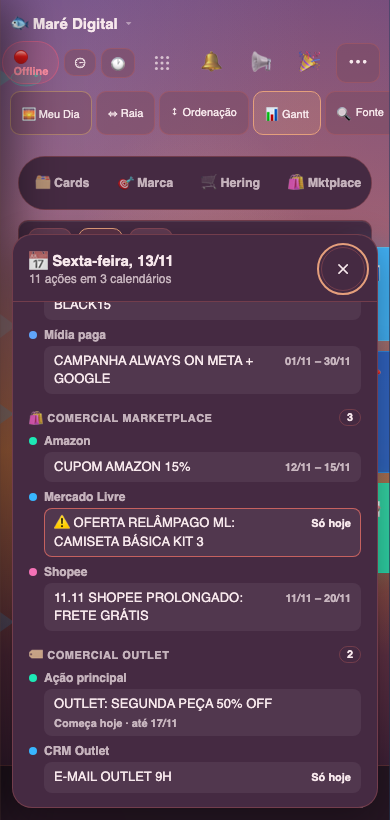
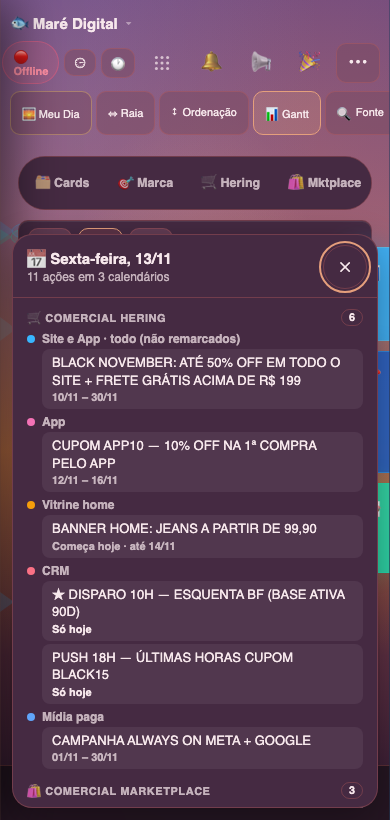
popup do dia: 480 px no computador e "quando" sempre na mesma posição (direita no computador, embaixo no celular); teste M8g; console de validação; Quadro com a reserva
Agent: claude

diff --git a/mare-gcal-dev.js b/mare-gcal-dev.js
@@ -265,23 +265,23 @@
 [data-theme="light"] .mgc-sino.on{color:var(--cyan,#065670);}
 .mgc-sino[disabled]{opacity:.6;cursor:progress;}
 .mgc-dia{display:flex;flex-direction:column;padding:0 !important;color:var(--txt);font-size:13px;}
-.mgc-dia-hd{position:sticky;top:0;z-index:1;display:flex;align-items:center;gap:10px;padding:12px 12px 10px 16px;background:inherit;border-bottom:1px solid var(--glass-b);border-radius:inherit;border-bottom-left-radius:0;border-bottom-right-radius:0;}
+.mgc-dia-hd{position:sticky;top:0;z-index:1;display:flex;align-items:center;gap:10px;padding:10px 10px 8px 14px;background:inherit;border-bottom:1px solid var(--glass-b);border-radius:inherit;border-bottom-left-radius:0;border-bottom-right-radius:0;}
 .mgc-dia-tit{display:flex;flex-direction:column;gap:2px;min-width:0;flex:1;}
 .mgc-dia-tit b{font-size:15px;line-height:1.25;}
 .mgc-dia-tit span{font-size:12px;color:var(--txt2);}
 .mgc-dia-x{flex:none;width:32px;height:32px;border-radius:50%;border:1px solid var(--glass-b);background:transparent;color:var(--txt);font-size:14px;line-height:1;cursor:pointer;font-family:inherit;}
 .mgc-dia-x:hover{background:var(--glass-h);}
 .mgc-dia-x:focus-visible,.mgc-dia :focus-visible{outline:2px solid var(--accent);outline-offset:2px;}
-.mgc-dia-corpo{display:flex;flex-direction:column;gap:14px;padding:12px 16px 14px;}
-.mgc-dia-grp{display:flex;flex-direction:column;gap:8px;}
+.mgc-dia-corpo{display:flex;flex-direction:column;gap:12px;padding:10px 14px 12px;}
+.mgc-dia-grp{display:flex;flex-direction:column;gap:6px;}
 .mgc-dia-fonte{display:flex;align-items:center;justify-content:space-between;gap:8px;margin:0;font-size:11px;font-weight:800;letter-spacing:.05em;text-transform:uppercase;color:var(--txt2);}
 .mgc-dia-n{min-width:20px;padding:1px 7px;border-radius:999px;border:1px solid var(--glass-b);font-size:11px;letter-spacing:0;text-align:center;color:var(--txt);}
-.mgc-dia-lin{display:flex;flex-direction:column;gap:4px;}
+.mgc-dia-lin{display:flex;flex-direction:column;gap:3px;}
 .mgc-dia-lrot{display:flex;align-items:center;gap:7px;font-size:12px;font-weight:700;color:var(--txt2);}
 .mgc-dia-lrot i{flex:none;width:8px;height:8px;border-radius:50%;}
-.mgc-dia ul{margin:0;padding:0;list-style:none;display:flex;flex-direction:column;gap:4px;}
-.mgc-dia-it{display:flex;align-items:baseline;justify-content:space-between;gap:4px 10px;flex-wrap:wrap;padding:6px 10px;margin-left:15px;border-radius:8px;background:color-mix(in srgb,currentColor 7%,transparent);}
-.mgc-dia-txt{flex:1 1 200px;min-width:0;line-height:1.4;overflow-wrap:anywhere;}
+.mgc-dia ul{margin:0;padding:0;list-style:none;display:flex;flex-direction:column;gap:3px;}
+.mgc-dia-it{display:grid;grid-template-columns:minmax(0,1fr) auto;align-items:baseline;gap:2px 12px;padding:5px 10px;margin-left:15px;border-radius:8px;background:var(--glass-h);background:color-mix(in srgb,currentColor 7%,transparent);}   /* "quando" SEMPRE na coluna da direita (computador) */
+.mgc-dia-txt{min-width:0;line-height:1.35;overflow-wrap:anywhere;}
 .mgc-dia-q{flex:none;font-size:11px;font-weight:600;color:var(--txt2);white-space:nowrap;}
 .mgc-dia-q.is-hoje{color:var(--txt);}
 .mgc-dia-it.is-alerta{box-shadow:inset 0 0 0 1px var(--danger,#ff6b6b);}
@@ -290,6 +290,7 @@
 .mgc-dia-vz{display:flex;justify-content:space-between;gap:10px;font-size:12px;color:var(--txt2);}
 .mgc-dia-vz span:first-child{font-weight:700;}
 @media (hover:none) and (pointer:coarse){ .mgc-dia-x{width:44px;height:44px;} }
+@media (max-width:768px){ .mgc-dia-it{grid-template-columns:minmax(0,1fr);} }   /* celular: "quando" SEMPRE embaixo do texto (estreito demais p/ 2 colunas) */
 @media (max-width:600px){ .mgc-aba-l{display:none;} .mgc-aba-c{display:inline;} }
 @media (max-width:768px){ .mgc{--mgc-title:118px;} .mgc.is-largo{--mgc-day:120px;} .mgc-abas{align-self:stretch;gap:2px;} .mgc-aba{flex:1 0 auto;padding:9px 8px;} .mgc-mes{margin-left:0;flex:1 1 100%;} .mgc-lin{white-space:normal;font-size:11.5px;line-height:1.2;} }
 @media (hover:none) and (pointer:coarse){ .mgc-aba,.mgc-btn,.mgc-chip,.mgc-mes,.mgc-dhd.is-clic{min-height:44px;} .mgc-mes{font-size:16px;} }
@@ -308,7 +309,7 @@
 }
 
 /* 📅 Popup do dia (16/11): fica no <body> (fora da régua, que tem rolagem própria) e se posiciona junto do dia clicado */
-.mgc-diapop{position:fixed;z-index:9400;padding:0;background:rgb(var(--surface-rgb,var(--slate-rgb,10,30,55)));color:var(--txt);border:1px solid var(--glass-b);border-radius:var(--r2,14px);width:min(380px,calc(100vw - 32px));max-height:min(70vh,520px);overflow:auto;overscroll-behavior:contain;box-shadow:var(--specular,none),0 12px 40px rgba(0,0,0,.35);}
+.mgc-diapop{position:fixed;z-index:9400;padding:0;background:rgb(var(--surface-rgb,var(--slate-rgb,10,30,55)));color:var(--txt);border:1px solid var(--glass-b);border-radius:var(--r2,14px);width:min(480px,calc(100vw - 32px));max-height:min(80vh,720px);overflow:auto;overscroll-behavior:contain;box-shadow:var(--specular,none),0 12px 40px rgba(0,0,0,.35);}
 .mgc-diapop.is-novo{animation:mgcPopIn .14s ease-out;}
 @keyframes mgcPopIn{from{opacity:0;transform:translateY(-4px);}to{opacity:1;transform:none;}}
 @media (max-width:768px){ .mgc-diapop{left:12px !important;right:12px;top:auto !important;bottom:calc(12px + env(safe-area-inset-bottom,0px));width:auto;max-height:70dvh;border-radius:20px;} }

diff --git a/docs/arezzo/testes/console_gantt_dia_ux.js b/docs/arezzo/testes/console_gantt_dia_ux.js
@@ -1,0 +1,22 @@
+// 📅 Validação do popup do dia (Gantt · 🧭 Digital) — /melhoriauiux de 16/11/2026. SÓ LEITURA.
+// Como usar: no kanban-dev.html (📊 Gantt → 🧭 Digital · dia a dia) OU no okr-dev.html (Calendário → 📊 Gantt → 🧭 Digital),
+// toque num dia que tenha ações e cole isto no console (F12).
+(() => {
+  const d = document.querySelector('.mgc-diapop');
+  const r = [];
+  const ok = (teste, passou, detalhe) => r.push({ teste, resultado: passou ? '✅' : '❌', detalhe: detalhe || '' });
+  ok('popup do dia aberto', !!d, d ? '' : 'toque num dia da 🧭 Digital antes');
+  if (d) {
+    const its = [...d.querySelectorAll('.mgc-dia-it')], lin = [...d.querySelectorAll('.mgc-dia-lrot')].map(x => x.textContent);
+    ok('módulo mare-gcal v9', (window.MareGCal || {}).v === 9, 'v=' + (window.MareGCal || {}).v);
+    ok('cabeçalho com data e total', /\d{2}\/\d{2}/.test(d.querySelector('.mgc-dia-tit b')?.textContent || ''), d.querySelector('.mgc-dia-tit span')?.textContent);
+    ok('cada calendário com título e total', d.querySelectorAll('.mgc-dia-fonte .mgc-dia-n').length === d.querySelectorAll('.mgc-dia-grp').length, d.querySelectorAll('.mgc-dia-grp').length + ' calendário(s)');
+    ok('cada linha aparece uma vez por calendário', [...d.querySelectorAll('.mgc-dia-grp')].every(g => { const l = [...g.querySelectorAll('.mgc-dia-lrot')].map(x => x.textContent); return new Set(l).size === l.length; }), lin.join(' · '));
+    ok('toda ação tem o "quando"', its.every(li => (li.querySelector('.mgc-dia-q')?.textContent || '').length > 0), its.length + ' ação(ões)');
+    ok('⚠ das ações importantes aparece', [...d.querySelectorAll('.mgc-dia-it.is-alerta')].every(li => /⚠/.test(li.textContent)), d.querySelectorAll('.is-alerta').length + ' importante(s)');
+    const pos = new Set(its.map(li => { const a = li.getBoundingClientRect(), b = li.querySelector('.mgc-dia-q').getBoundingClientRect(); return innerWidth > 768 ? Math.round(b.right - a.right) + '/' + Math.round(b.top - a.top) : Math.round(b.left - a.left); }));
+    ok('"quando" sempre no mesmo lugar', pos.size <= 1, [...pos].join(' | '));
+    ok('sem rolagem lateral', d.scrollWidth <= d.clientWidth + 1);
+  }
+  console.table(r);
+})();

diff --git a/docs/arezzo/testes/test_gantt_digital.js b/docs/arezzo/testes/test_gantt_digital.js
@@ -74,6 +74,9 @@ const seed = () => ({ kanban: {
     t('M8d. "quando" de cada item: período (10/11 – 14/11) e Só hoje', est.qSite === '10/11 – 14/11' && est.qCrm === 'Só hoje', est);
     t('M8e. ⚠ ação importante aparece no popup (como na régua)', est.alerta, est);
     t('M8f. calendário sem nada vira linha compacta no fim; subtítulo conta ações e calendários; cabeçalho fixo', est.vazio.length === 1 && /Outlet.*ainda não publicado/i.test(est.vazio[0]) && est.sub === '3 ações em 2 calendários' && est.fixo === 'sticky', est);
+    t('M8g. "quando" sempre na mesma posição (coluna da direita, topo do item) e popup sem rolagem neste caso', await p.evaluate(() => { const d = document.getElementById('gantt-dia');
+      const pos = [...d.querySelectorAll('.mgc-dia-it')].map(li => { const a = li.getBoundingClientRect(), b = li.querySelector('.mgc-dia-q').getBoundingClientRect(); return Math.round(b.right - a.right) + '/' + Math.round(b.top - a.top); });
+      return new Set(pos).size === 1 && d.scrollHeight <= d.clientHeight + 1; }));
     t('M9. dia escolhido destacado (aria-pressed) e foco no ✕', await p.evaluate(() => document.querySelector('.gantt-day-hd[data-date="2026-11-13"]').getAttribute('aria-pressed') === 'true' && document.activeElement && document.activeElement.closest('#gantt-dia')));
     // republicação ao vivo de uma fonte com a consolidada aberta
     await p.evaluate(suf => window._set(window._ref(window._db, 'kanban/calendarios_gantt' + suf + '/outlet'), { meta: { atualizadoEm: 1, porNome: 'X', arquivo: 'o.xlsx' }, linhas: { out_acao_principal: { rot: 'Ação principal', ordem: 0 } }, barras: { o1: { linha: 'out_acao_principal', ini: '2026-11-13', fim: '2026-11-13', txt: 'OUTLET NOVO' } } }), SUF);

diff --git a/CHANGELOG.md b/CHANGELOG.md
@@ -29,7 +29,8 @@ completo, incluindo commits antigos sem PR/descrição detalhada).
 - **/melhoriauiux (o Caio achou o popup "desorganizado, informações jogadas"):** antes, cada ação era uma linha corrida "Linha: TEXTO (período)", o título do calendário quase igual aos itens, a linha repetida a cada ação (CRM, CRM…) e a ⚠ ação importante da régua sumia no popup.
 - **Agora:** cabeçalho fixo com a data e "N ações em N calendários" · cada calendário como título com o total · cada linha **uma vez**, com a **bolinha da mesma cor da régua** · cada ação num bloco próprio com o **quando** à direita (**Só hoje**, **Começa hoje · até 14/11**, **Termina hoje** ou o período) · **⚠ / ★** como na régua · calendário sem nada (ou não publicado) vira uma linha compacta no fim.
 - **Fonte única:** `MareGCal.diaHtml()` (mare-gcal-dev.js v9) — Maré e Radar desenham o mesmo popup (antes eram duas cópias). Nada mudou no que entra no dia (mesma `doDia`).
-- Teste: `test_gantt_digital.js` (M8c–M8f). Capturas antes/depois: `docs/capturas/gantt_dia_ux/`.
+- **Mais largo no computador** (380 → 480 px, até 80 % da altura): com 11 ações em 3 calendários o popup cabe inteiro em 1280×900 (707 px, sem rolar). O "quando" fica **sempre** na coluna da direita no computador e **sempre** embaixo do texto no celular.
+- Teste: `test_gantt_digital.js` (M8c–M8g). Validação de console: `docs/arezzo/testes/console_gantt_dia_ux.js`. Capturas antes/depois: `docs/capturas/gantt_dia_ux/`.
 
 ### 📅 Gantt · 🧭 Digital: o "tudo deste dia" abre num popup junto do dia clicado (kanban v8.30.987-dev, okr v2.135-dev, mare-gcal v8) — SÓ DEV — 2026-11-16
 

diff --git a/docs/QUADRO.md b/docs/QUADRO.md
@@ -8,6 +8,7 @@
 
 | Agente | Branch | Arquivos | Desde |
 |---|---|---|---|
+| Claude | `claude/gantt-dia-ux` | `mare-gcal-dev.js`, `kanban-dev.html` (só `_ganttDia*`), `okr-dev.html` (só `_GCAL_V` + versão), `version.json` | 16/11/2026 |
 
 
 ## Fila
